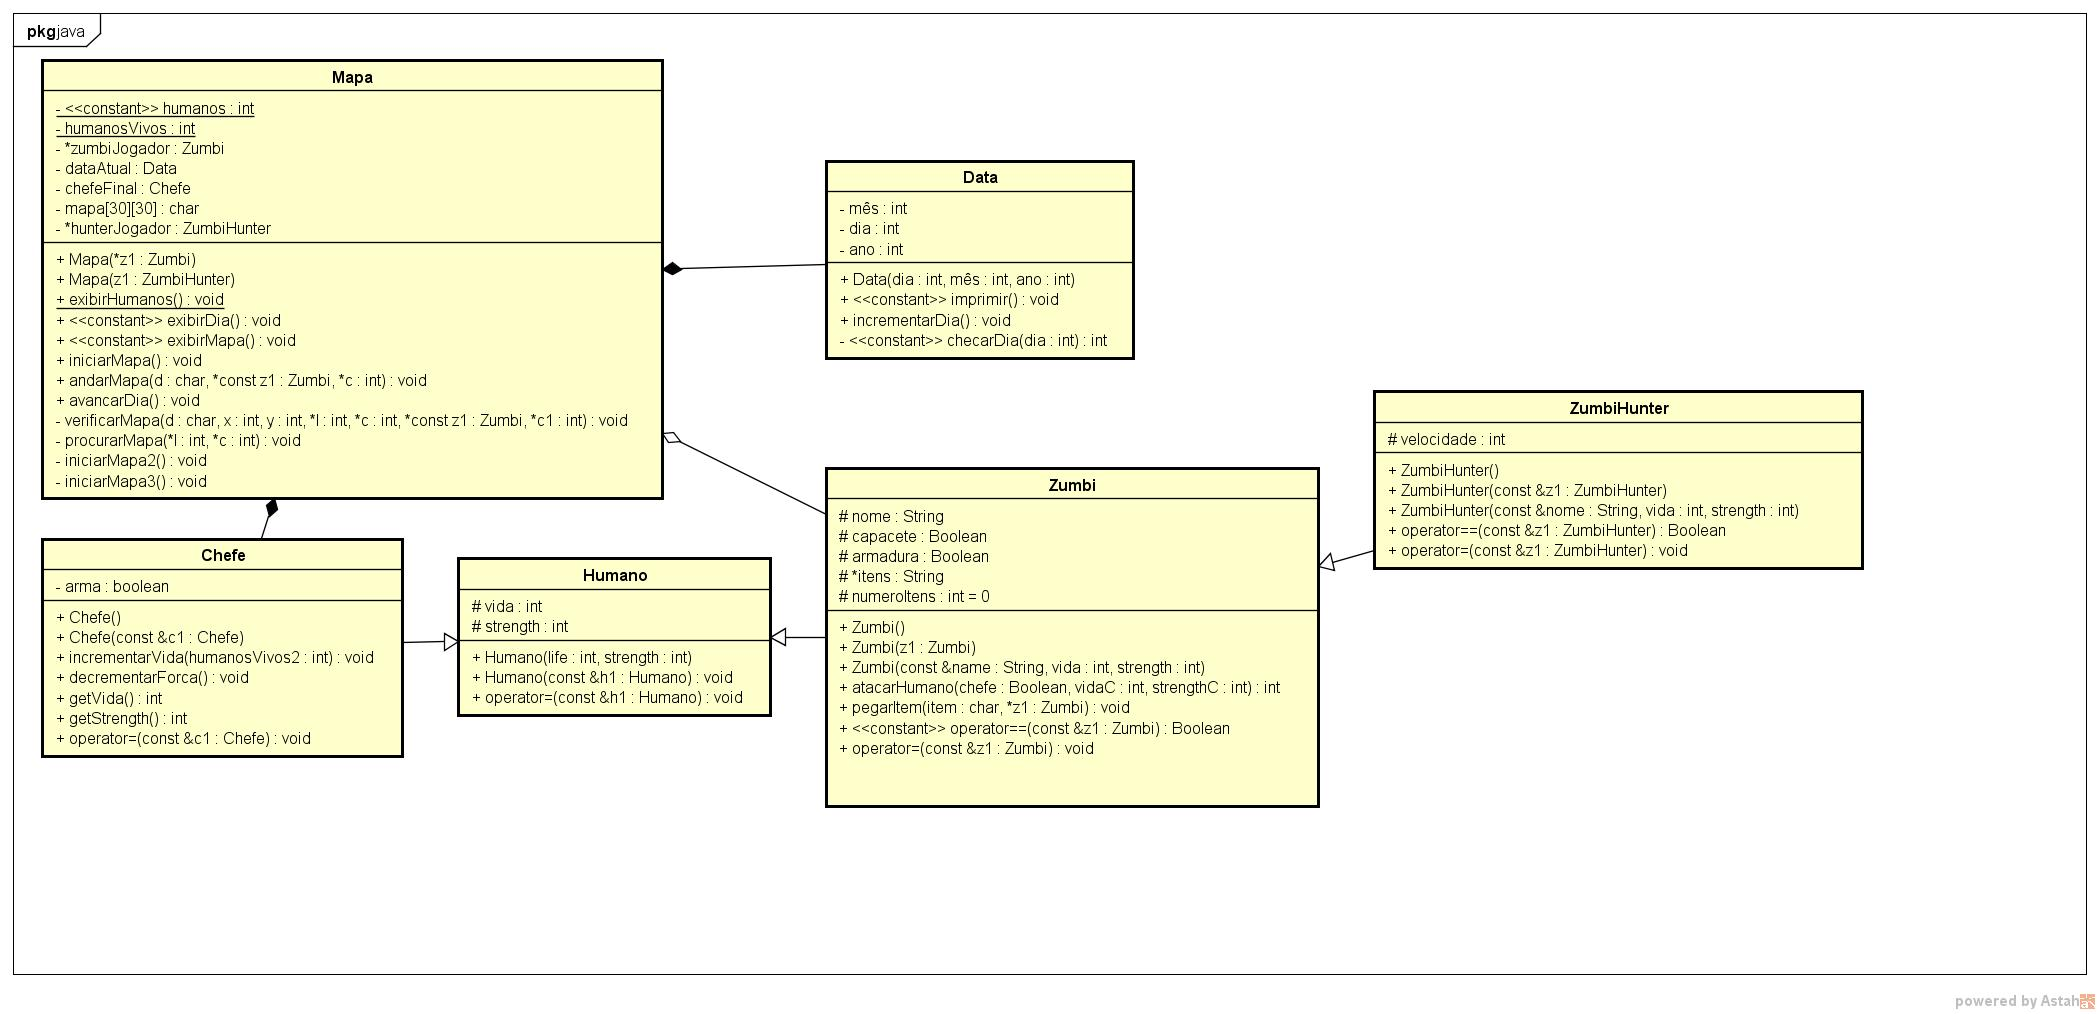
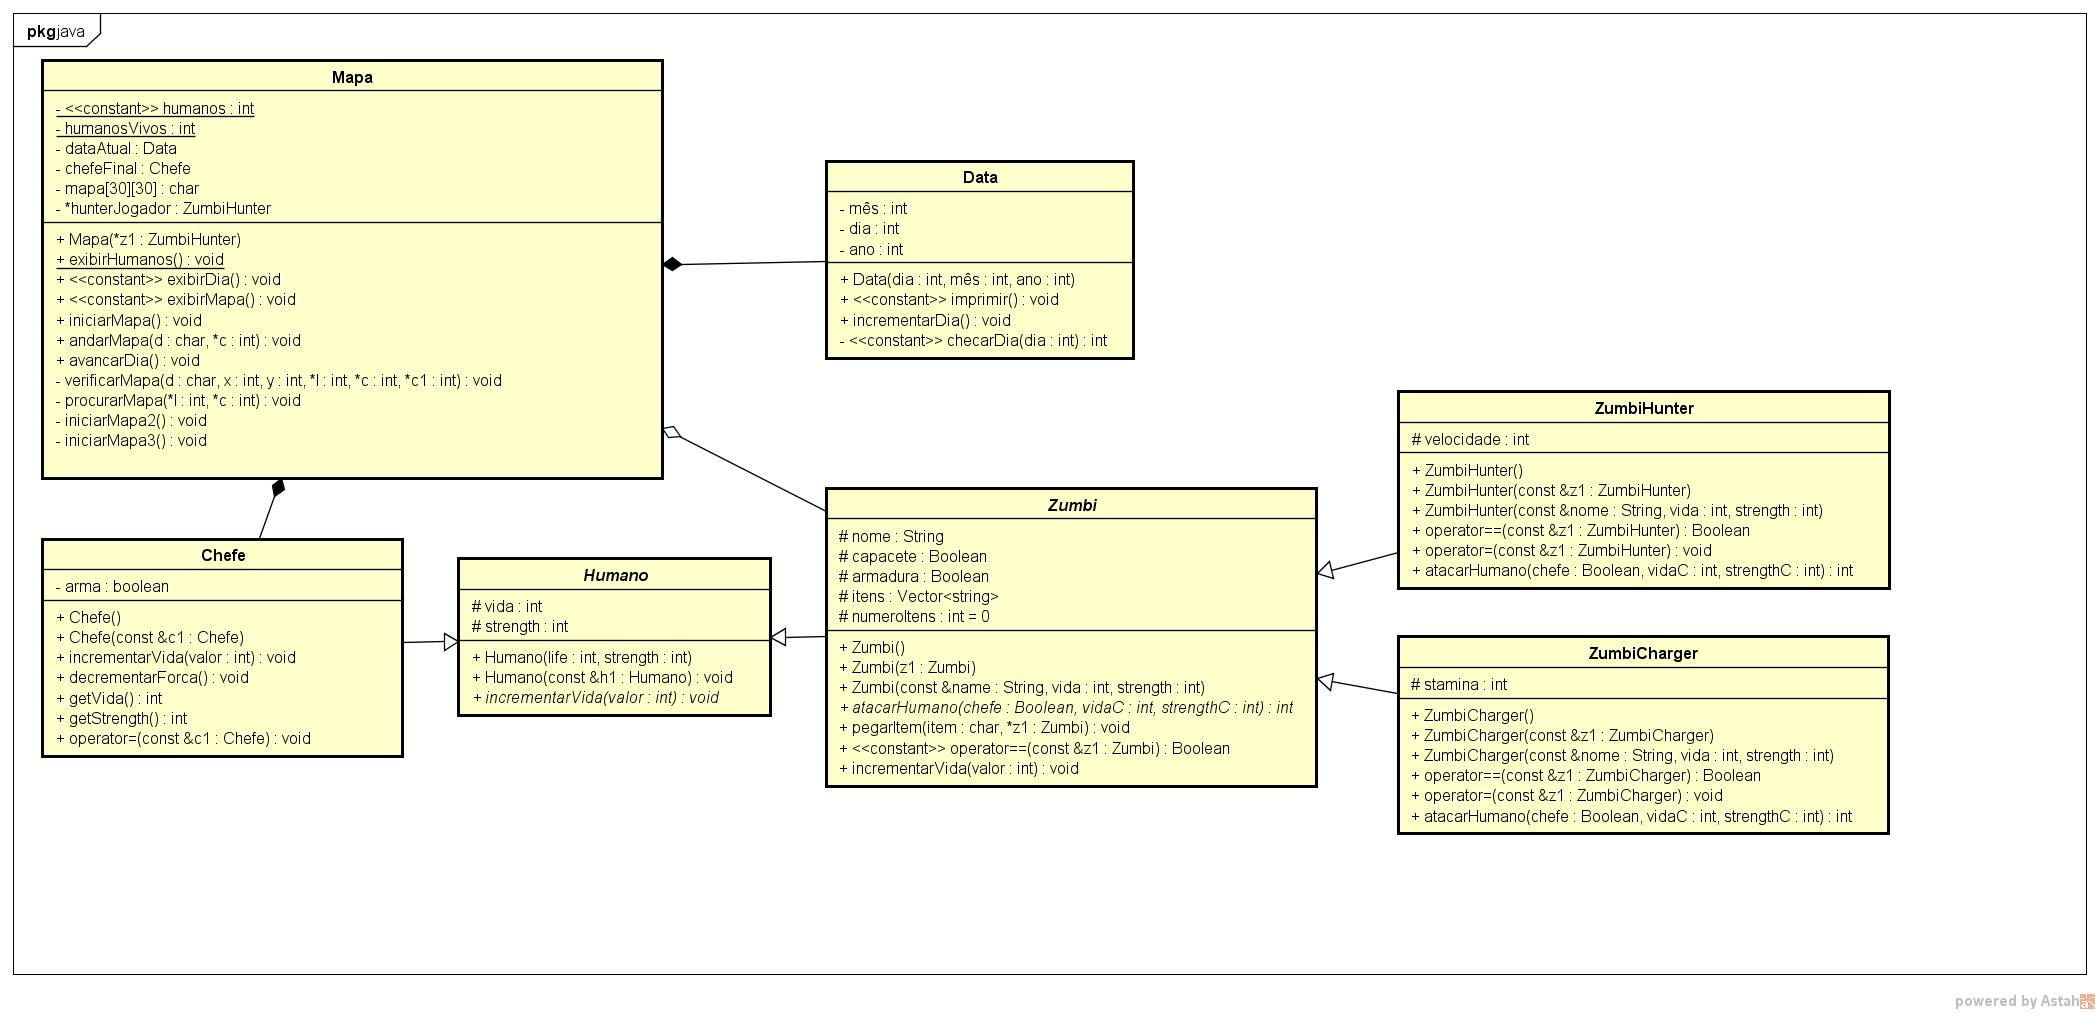
Correção UML
Diagrama atualizado e correção de erros em "ZumbiCharger".

diff --git a/ZumbiCharger.cpp b/ZumbiCharger.cpp
@@ -1,4 +1,11 @@
 #include "ZumbiCharger.h"
+#include <random>
+#include <string>
+#include <ctime>
+#include <iostream>
+#include <conio.h>
+
+#define vh 4000
 
 ZumbiCharger::ZumbiCharger():Zumbi("Sem nome",5000,400){
     this->stamina = 50;
@@ -8,7 +15,7 @@ ZumbiCharger::ZumbiCharger(const string &nome, int vida, int strength):Zumbi(nom
     this->stamina = 50;
 }
 
-ZumbiCharger::ZumbiCharger(const ZumbiCharger &z1):Zumbi(z1.nome,z1.vida,z1.velocidade){
+ZumbiCharger::ZumbiCharger(const ZumbiCharger &z1):Zumbi(z1.nome,z1.vida,z1.strength){
 	this->stamina = z1.stamina;
 }
 
@@ -146,8 +153,3 @@ int ZumbiCharger::atacarHumano(bool chefe, int vidaC, int strengthC){
 	    return 1;
     }
 }
-
-ZumbiCharger::~ZumbiCharger()
-{
-}
-
